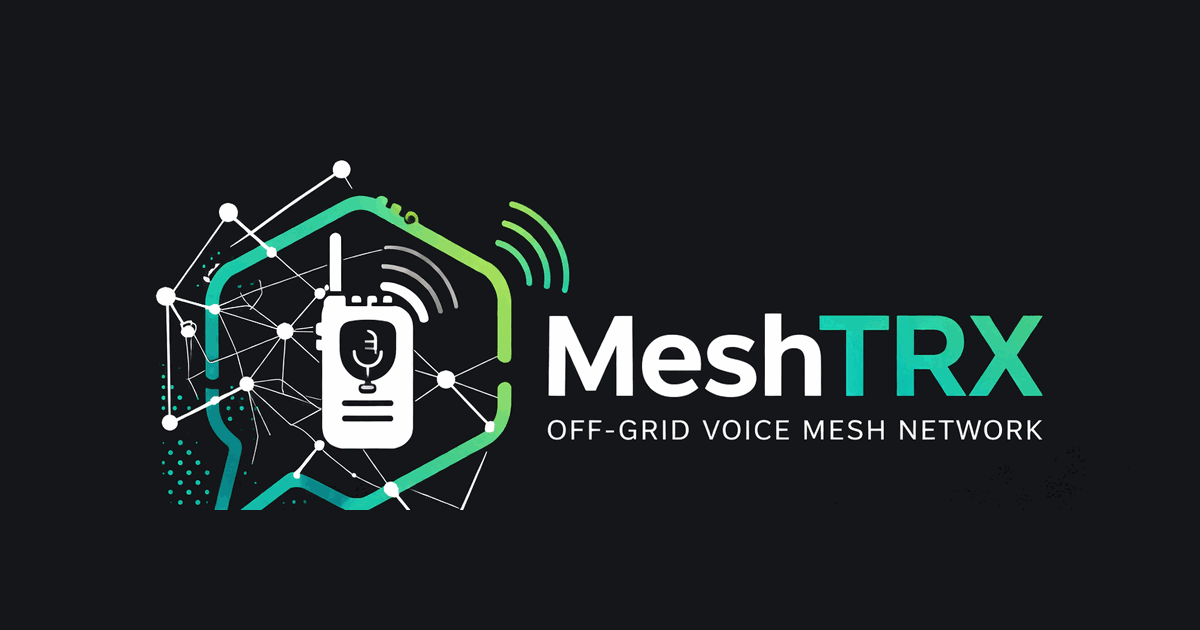
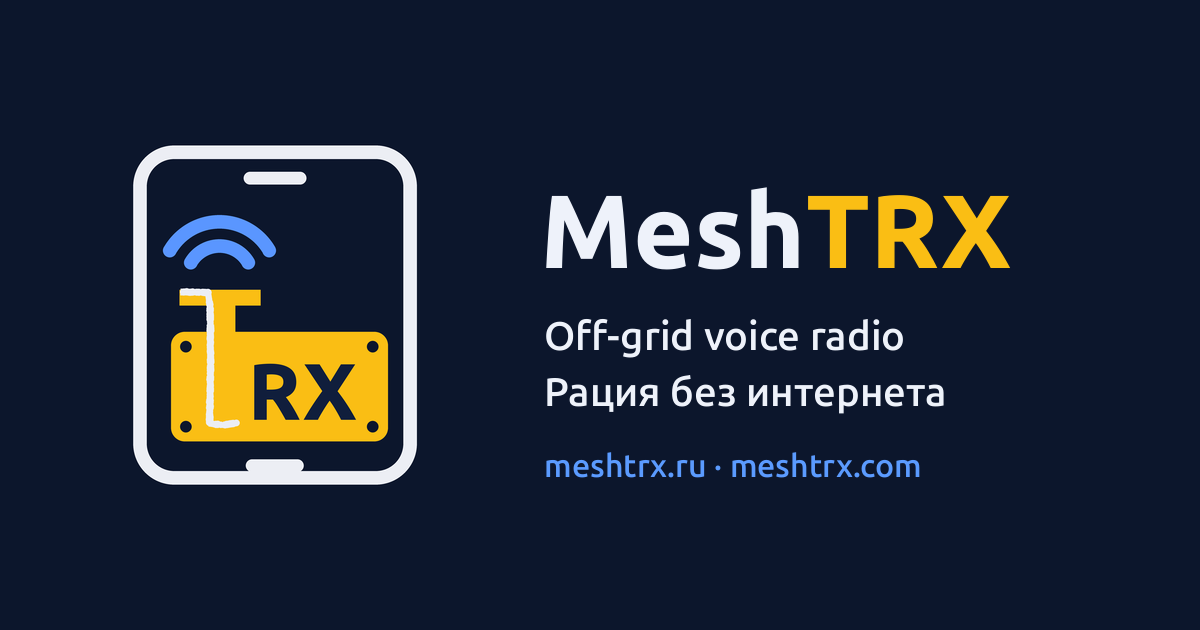
Сайт: сине-жёлтые цвета, новый знак в шапке, новые иконки и картинка для ссылок (#116)

Changed region(s): [[0.0925, 0.2111, 0.8633, 0.8143], [0.8633, 0.754, 0.8942, 0.7841]]

diff --git a/web/src/components/articles/PacketDiagram.tsx b/web/src/components/articles/PacketDiagram.tsx
@@ -53,8 +53,8 @@ export default function PacketDiagram() {
               width={cell.w - 2}
               height={46}
               rx="3"
-              fill="#60a5fa15"
-              stroke="#60a5fa"
+              fill="#5B9BFF15"
+              stroke="#5B9BFF"
               strokeWidth="1.5"
             />
             {/* Однобайтовая ячейка — это меньше 25 px по ширине, и подпись в
@@ -65,7 +65,7 @@ export default function PacketDiagram() {
               x={cell.x + cell.w / 2}
               y={63}
               textAnchor="middle"
-              fill="#60a5fa"
+              fill="#5B9BFF"
               fontSize="10"
               fontFamily="monospace"
               transform={`rotate(-90 ${cell.x + cell.w / 2} 63)`}
@@ -84,8 +84,8 @@ export default function PacketDiagram() {
               width={frameWidth - 2}
               height={46}
               rx="3"
-              fill="#4ade8015"
-              stroke="#4ade80"
+              fill="#FABE1415"
+              stroke="#FABE14"
               strokeWidth="1.5"
               className="animate-pulse-line"
             />
@@ -93,7 +93,7 @@ export default function PacketDiagram() {
               x={headerWidth + i * frameWidth + frameWidth / 2}
               y={62}
               textAnchor="middle"
-              fill="#4ade80"
+              fill="#FABE14"
               fontSize="11"
               fontFamily="monospace"
             >
@@ -103,7 +103,7 @@ export default function PacketDiagram() {
               x={headerWidth + i * frameWidth + frameWidth / 2}
               y={77}
               textAnchor="middle"
-              fill="#4ade80"
+              fill="#FABE14"
               fontSize="10"
               fontFamily="monospace"
               opacity="0.75"
@@ -117,14 +117,14 @@ export default function PacketDiagram() {
         <path
           d={`M0 96 L0 104 L${headerWidth} 104 L${headerWidth} 96`}
           fill="none"
-          stroke="#60a5fa"
+          stroke="#5B9BFF"
           strokeWidth="1.5"
           opacity="0.6"
         />
-        <text x={headerWidth / 2} y={124} textAnchor="middle" fill="#60a5fa" fontSize="12" fontFamily="monospace">
+        <text x={headerWidth / 2} y={124} textAnchor="middle" fill="#5B9BFF" fontSize="12" fontFamily="monospace">
           {ru ? '7 байт' : '7 bytes'}
         </text>
-        <text x={headerWidth / 2} y={140} textAnchor="middle" fill="#a3a3a3" fontSize="11" fontFamily="monospace">
+        <text x={headerWidth / 2} y={140} textAnchor="middle" fill="#A9B4CC" fontSize="11" fontFamily="monospace">
           {ru ? 'заголовок' : 'header'}
         </text>
 
@@ -132,7 +132,7 @@ export default function PacketDiagram() {
         <path
           d={`M${headerWidth} 96 L${headerWidth} 104 L${WIDTH} 104 L${WIDTH} 96`}
           fill="none"
-          stroke="#4ade80"
+          stroke="#FABE14"
           strokeWidth="1.5"
           opacity="0.6"
         />
@@ -140,7 +140,7 @@ export default function PacketDiagram() {
           x={headerWidth + (WIDTH - headerWidth) / 2}
           y={124}
           textAnchor="middle"
-          fill="#4ade80"
+          fill="#FABE14"
           fontSize="12"
           fontFamily="monospace"
         >
@@ -150,7 +150,7 @@ export default function PacketDiagram() {
           x={headerWidth + (WIDTH - headerWidth) / 2}
           y={140}
           textAnchor="middle"
-          fill="#a3a3a3"
+          fill="#A9B4CC"
           fontSize="11"
           fontFamily="monospace"
         >
@@ -166,10 +166,10 @@ export default function PacketDiagram() {
         </text>
 
         {/* Подпись оси сверху */}
-        <text x="0" y={26} fill="#a3a3a3" fontSize="11" fontFamily="monospace">
+        <text x="0" y={26} fill="#A9B4CC" fontSize="11" fontFamily="monospace">
           {ru ? 'байт 0' : 'byte 0'}
         </text>
-        <text x={WIDTH} y={26} textAnchor="end" fill="#a3a3a3" fontSize="11" fontFamily="monospace">
+        <text x={WIDTH} y={26} textAnchor="end" fill="#A9B4CC" fontSize="11" fontFamily="monospace">
           {ru ? 'байт 38' : 'byte 38'}
         </text>
       </svg>

diff --git a/web/src/components/home/MeshDiagram.tsx b/web/src/components/home/MeshDiagram.tsx
@@ -30,7 +30,7 @@ export default function MeshDiagram() {
             y1={nodes[link.from].y}
             x2={nodes[link.to].x}
             y2={nodes[link.to].y}
-            stroke={link.type === 'lora' ? '#4ade80' : '#60a5fa'}
+            stroke={link.type === 'lora' ? '#FABE14' : '#5B9BFF'}
             strokeWidth="2"
             strokeDasharray={link.type === 'lora' ? '8 4' : 'none'}
             className={link.type === 'lora' ? 'animate-dash' : ''}
@@ -44,13 +44,13 @@ export default function MeshDiagram() {
               cy={node.y}
               r={node.type === 'node' ? 24 : 18}
               fill={
-                node.type === 'node' ? '#4ade8020' :
-                node.type === 'phone' ? '#60a5fa15' :
+                node.type === 'node' ? '#FABE1420' :
+                node.type === 'phone' ? '#5B9BFF15' :
                 '#a78bfa15'
               }
               stroke={
-                node.type === 'node' ? '#4ade80' :
-                node.type === 'phone' ? '#60a5fa' :
+                node.type === 'node' ? '#FABE14' :
+                node.type === 'phone' ? '#5B9BFF' :
                 '#a78bfa'
               }
               strokeWidth="1.5"
@@ -61,8 +61,8 @@ export default function MeshDiagram() {
               y={node.y + 4}
               textAnchor="middle"
               fill={
-                node.type === 'node' ? '#4ade80' :
-                node.type === 'phone' ? '#60a5fa' :
+                node.type === 'node' ? '#FABE14' :
+                node.type === 'phone' ? '#5B9BFF' :
                 '#a78bfa'
               }
               fontSize="10"
@@ -74,7 +74,7 @@ export default function MeshDiagram() {
               x={node.x}
               y={node.y + 40}
               textAnchor="middle"
-              fill="#a3a3a3"
+              fill="#A9B4CC"
               fontSize="11"
               fontFamily="monospace"
             >
@@ -84,10 +84,10 @@ export default function MeshDiagram() {
         ))}
         {/* Legend */}
         <g transform="translate(340, 150)">
-          <line x1="0" y1="0" x2="30" y2="0" stroke="#60a5fa" strokeWidth="2" />
-          <text x="35" y="4" fill="#a3a3a3" fontSize="10" fontFamily="monospace">BLE</text>
-          <line x1="80" y1="0" x2="110" y2="0" stroke="#4ade80" strokeWidth="2" strokeDasharray="8 4" />
-          <text x="115" y="4" fill="#a3a3a3" fontSize="10" fontFamily="monospace">LoRa</text>
+          <line x1="0" y1="0" x2="30" y2="0" stroke="#5B9BFF" strokeWidth="2" />
+          <text x="35" y="4" fill="#A9B4CC" fontSize="10" fontFamily="monospace">BLE</text>
+          <line x1="80" y1="0" x2="110" y2="0" stroke="#FABE14" strokeWidth="2" strokeDasharray="8 4" />
+          <text x="115" y="4" fill="#A9B4CC" fontSize="10" fontFamily="monospace">LoRa</text>
         </g>
       </svg>
     </div>

diff --git a/web/src/app/globals.css b/web/src/app/globals.css
@@ -5,8 +5,8 @@
 @import url('https://fonts.googleapis.com/css2?family=JetBrains+Mono:wght@400;500;600;700&display=swap');
 
 :root {
-  --bg: #141414;
-  --accent: #4ade80;
+  --bg: #0E1A33;
+  --accent: #FABE14;
 }
 
 html {
@@ -15,7 +15,7 @@ html {
 
 body {
   background-color: var(--bg);
-  color: #f5f5f5;
+  color: #EEF2FA;
   font-family: 'JetBrains Mono', monospace;
 }
 
@@ -24,23 +24,23 @@ body {
   width: 6px;
 }
 ::-webkit-scrollbar-track {
-  background: #1e1e1e;
+  background: #14233F;
 }
 ::-webkit-scrollbar-thumb {
-  background: #333;
+  background: #22355A;
   border-radius: 3px;
 }
 ::-webkit-scrollbar-thumb:hover {
-  background: #4ade80;
+  background: #FABE14;
 }
 
 /* Glow effect */
 .glow {
-  box-shadow: 0 0 20px rgba(74, 222, 128, 0.15);
+  box-shadow: 0 0 20px rgba(250, 190, 20, 0.15);
 }
 
 .glow-text {
-  text-shadow: 0 0 10px rgba(74, 222, 128, 0.3);
+  text-shadow: 0 0 10px rgba(250, 190, 20, 0.3);
 }
 
 /* Animated mesh line */

diff --git a/web/src/components/layout/Header.tsx b/web/src/components/layout/Header.tsx
@@ -25,9 +25,8 @@ export default function Header() {
     <header className="fixed top-0 left-0 right-0 z-50 bg-bg/80 backdrop-blur-md border-b border-border">
       <div className="max-w-6xl mx-auto px-4 h-16 flex items-center justify-between">
         <Link href="/" className="flex items-center gap-2 group">
-          <div className="w-8 h-8 rounded-lg bg-accent/10 border border-accent/30 flex items-center justify-center group-hover:bg-accent/20 transition-colors">
-            <span className="text-accent font-bold text-sm">M</span>
-          </div>
+          {/* eslint-disable-next-line @next/next/no-img-element */}
+          <img src="/mark-64.png" alt="" width={32} height={32} className="w-8 h-8 rounded-lg" />
           <span className="font-bold text-lg text-text-primary">
             Mesh<span className="text-accent">TRX</span>
           </span>

diff --git a/web/tailwind.config.ts b/web/tailwind.config.ts
@@ -8,14 +8,14 @@ const config: Config = {
   theme: {
     extend: {
       colors: {
-        bg: '#141414',
-        'bg-card': '#1e1e1e',
-        'bg-hover': '#2a2a2a',
-        accent: '#4ade80',
-        'accent-dim': '#22c55e',
-        'text-primary': '#f5f5f5',
-        'text-secondary': '#a3a3a3',
-        border: '#333333',
+        bg: '#0E1A33',
+        'bg-card': '#14233F',
+        'bg-hover': '#1B2C4E',
+        accent: '#FABE14',
+        'accent-dim': '#E0A800',
+        'text-primary': '#EEF2FA',
+        'text-secondary': '#A9B4CC',
+        border: '#22355A',
       },
       fontFamily: {
         mono: ['JetBrains Mono', 'Fira Code', 'monospace'],
